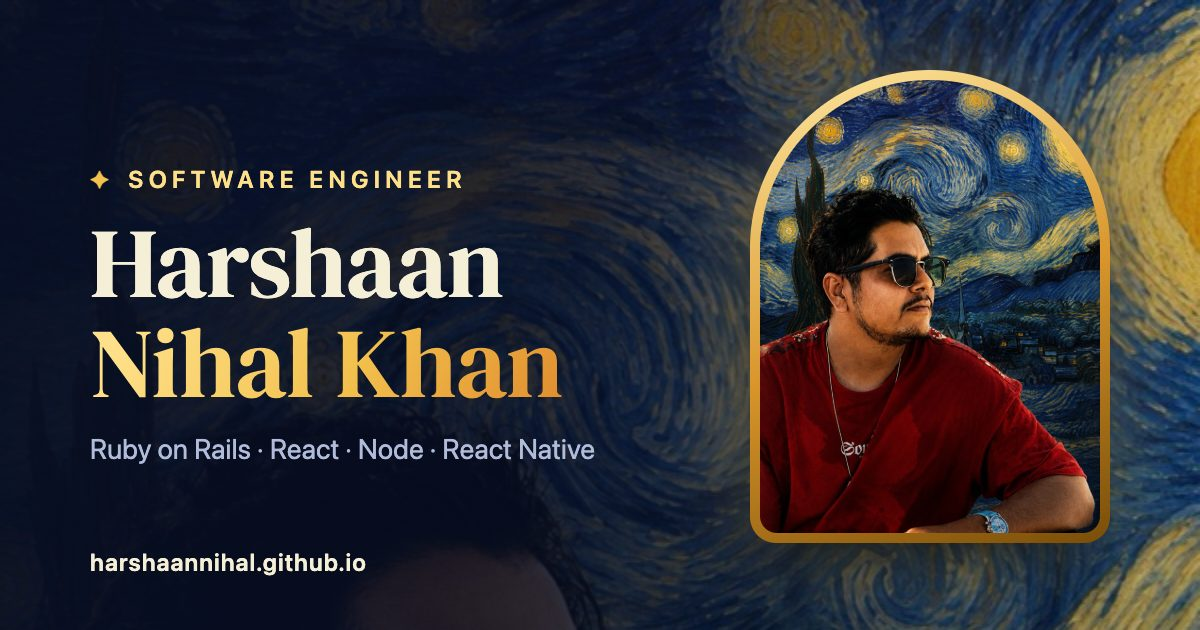
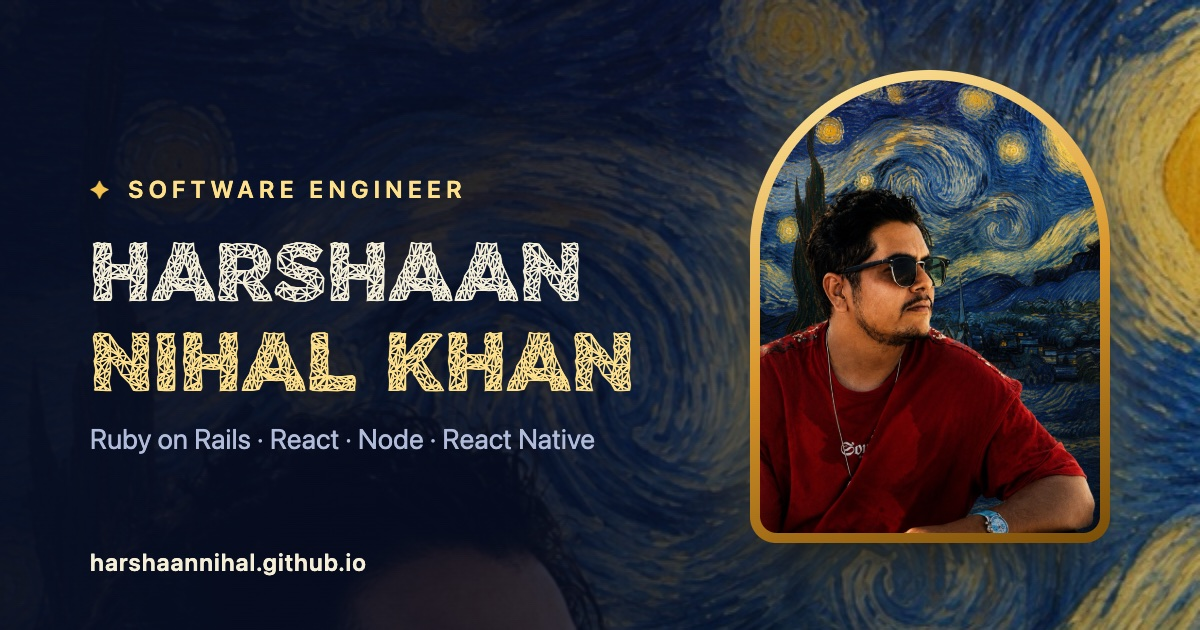
Render the share image in Polya and update the README

diff --git a/tools/og.html b/tools/og.html
@@ -6,7 +6,7 @@
 <head>
 <meta charset="utf-8">
 <style>
-  @font-face { font-family: "DM Serif Display"; src: url("../assets/fonts/dm-serif-display-latin.woff2") format("woff2"); }
+  @font-face { font-family: "Polya"; src: url("../assets/fonts/polya-latin.woff2") format("woff2"); }
   * { box-sizing: border-box; margin: 0; }
   body {
     position: relative; width: 1200px; height: 630px; overflow: hidden;
@@ -19,8 +19,8 @@
   }
   .role { font-size: 24px; font-weight: 600; letter-spacing: 0.22em; text-transform: uppercase; color: #ffe08a; }
   .role::before { content: "\2726"; margin-right: 14px; color: #f2c14e; }
-  h1 { max-width: 640px; font: 400 98px/1.02 "DM Serif Display", Georgia, serif; }
-  h1 span { background: linear-gradient(120deg, #ffe08a 10%, #f2c14e 55%, #e08a2c); -webkit-background-clip: text; background-clip: text; -webkit-text-fill-color: transparent; }
+  h1 { max-width: 640px; font: 400 84px/1.06 "Polya", Arial, sans-serif; text-transform: uppercase; -webkit-text-stroke: 1px currentColor; }
+  h1 span { color: #ffe08a; }
   .stack { font-size: 28px; color: #b0bcd9; }
   .url { position: absolute; left: 90px; bottom: 54px; font-size: 24px; font-weight: 600; letter-spacing: 0.04em; color: #f6efd8; }
   .frame {

diff --git a/README.md b/README.md
@@ -1,6 +1,6 @@
 # harshaannihal.github.io
 
-Portfolio of Harshaan Nihal Khan, built with [Jekyll](https://jekyllrb.com/) and served by GitHub Pages. The design takes its cues from the portrait on the home page: Van Gogh's *The Starry Night*, in a night theme and a day theme.
+Portfolio of Harshaan Nihal Khan, built with [Jekyll](https://jekyllrb.com/) and served by GitHub Pages. The design takes its cues from the portrait on the home page: Van Gogh's *The Starry Night*, in a night theme and a day theme. Headings are set in Polya, a wireframe display face. The hero has a constellation of floating stars that sits behind the text and the portrait.
 
 **Live:** https://harshaannihal.github.io/
 
@@ -16,11 +16,19 @@ tools/update-medium.py          # reads medium.com/feed/@klassynihal
 
 It rewrites `_data/medium.yml` and downloads each cover into `assets/media/writing/` as AVIF plus a JPEG fallback. The covers need macOS `sips`. Pass a different handle as the first argument.
 
+## The blog
+
+Posts live in `_posts/` and show up on [/blog/](https://harshaannihal.github.io/blog/) next to the Medium stories, newest first. Add a post by dropping `YYYY-MM-DD-title.markdown` in `_posts/` with `layout: post`, a `title` and a `date`. A post that was also published on Medium can set `canonical_url` and gets an "Also on Medium" link. Old post URLs keep working through `redirect_from` in the front matter.
+
+## Fonts
+
+Polya (by Adrien Coquet) is the display face. `tools/font.sh` rebuilds `assets/fonts/polya-latin.woff2` from `_src/fonts/POLYA.otf` (needs fonttools and brotli). Polya has no lowercase and lacks a few symbols, so those fall back to the next font in the stack. Body text uses the system font.
+
 ## Images
 
 Originals live in `_src/`, which never publishes. `tools/images.sh` rebuilds every optimized image from them (macOS `sips`):
 
-- `_src/hero.jpg` becomes `assets/media/hero-480` and `hero-720`, each as AVIF with a JPEG fallback.
+- `_src/hero.jpg` becomes `assets/media/hero-480`, `hero-720` and `hero-1152`, each as AVIF with a JPEG fallback.
 - `_src/sky.jpg` is the top band of the portrait. It becomes the small inline wash behind the hero, in `_includes/hero-wash.txt`.
 - `_src/work/NAME.jpg` becomes `assets/media/work/NAME.avif` and `.jpg` at 720 px wide.
 
@@ -30,12 +38,16 @@ Add a project screenshot by dropping a 1200 by 750 JPEG in `_src/work/`, running
 
 | Path | What it holds |
 | --- | --- |
-| `_layouts/` | `default` (page shell), `home`, `page` and `post` |
+| `_layouts/` | `default` (page shell), `home`, `blog` (the archive), `page` and `post` |
 | `_includes/home/` | One file per home page section |
 | `_includes/site.css` | All styles, inlined into every page. Tokens for the two themes sit at the top |
-| `_includes/site.js` | Theme toggle, mobile menu, scroll reveal and copy-email, inlined into every page |
-| `_includes/` | `head`, `header`, `footer`, `picture` and the `icon` helper |
+| `_includes/site.js` | Theme toggle, mobile menu, scroll reveal, copy-email and the hero constellation, inlined into every page |
+| `_includes/` | `head`, `header`, `footer`, `picture`, the `icon` helper and `btn` (the button link, see below) |
 | `tools/og.html` | Template for the social share image |
+
+## The notch button
+
+`{% include btn.html href="#work" label="See my work" icon="arrow-right" variant="notch" %}` draws a bordered button whose border has two gaps. On hover or keyboard focus the gaps slide to the opposite ends, the border turns crimson and the arrow turns a quarter. The border is a clipped pseudo-element, so the gaps are real holes. Other variants are `primary` and `ghost`.
 
 ## Run locally
 
@@ -48,8 +60,10 @@ Then open http://localhost:4000/. The Gemfile pins the `github-pages` gem, so lo
 
 ## Performance notes
 
-- A first visit on a phone is 4 requests and about 99 KB: the page, one font, and the hero image as AVIF.
-- CSS and JavaScript are inlined, the body text uses the system font, and DM Serif Display is the only web font (a Latin subset, 18 KB).
-- The hero background is a 2 KB inline thumbnail of the painting, stretched. There are no third-party requests.
-- Animation stops when the system asks for reduced motion, and the content is readable with JavaScript off.
+Looks come first here, and the numbers are still good. Measured on this build with Lighthouse: mobile 98 performance, desktop 100, and 100 for accessibility, best practices and SEO on both. Layout shift is 0.
+
+- A first visit on a phone is 4 requests and about 190 KB: the page, the Polya font (70 KB), and the hero portrait as AVIF (100 KB).
+- CSS and JavaScript are inlined, the body text uses the system font, and there are no third-party requests.
+- The hero background is a small inline copy of the painting, stretched and softened. The constellation is one canvas that pauses when it is off screen and stops for reduced motion.
+- Content is readable with JavaScript off, and animation stops when the system asks for reduced motion.
 - The share image `assets/media/og.jpg` comes from `tools/og.html`. The header of that file has the render commands.
